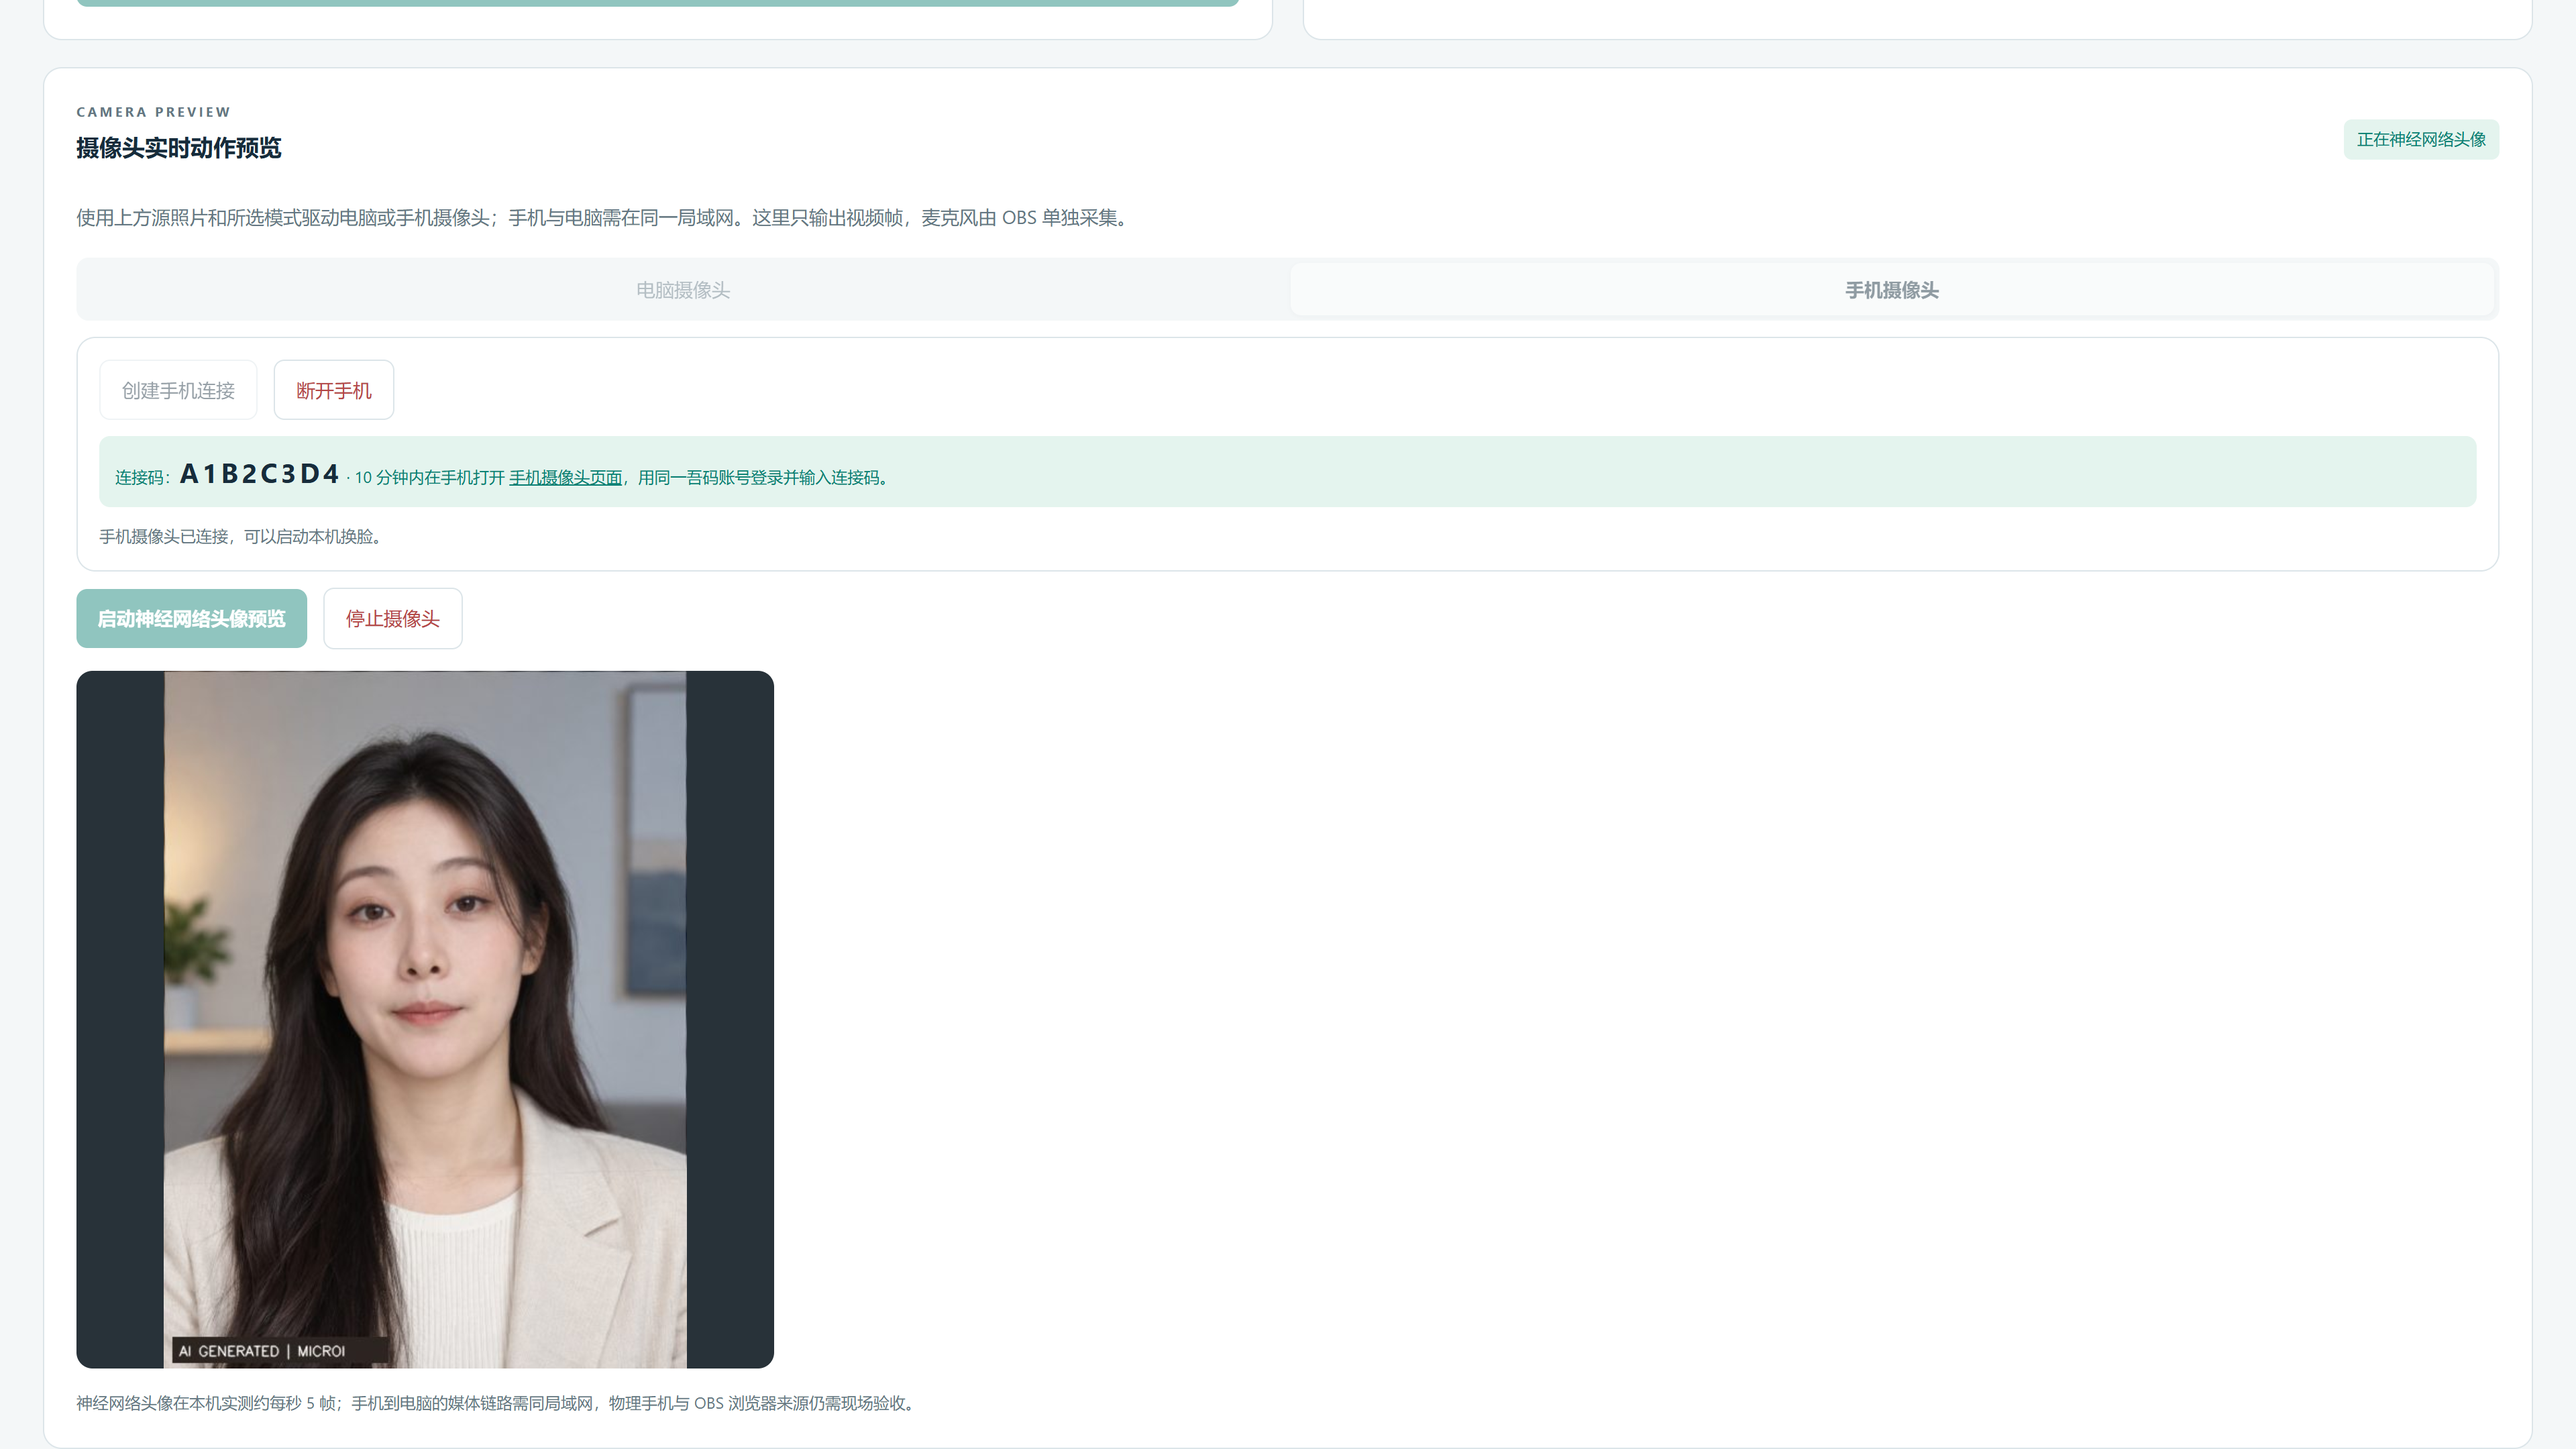
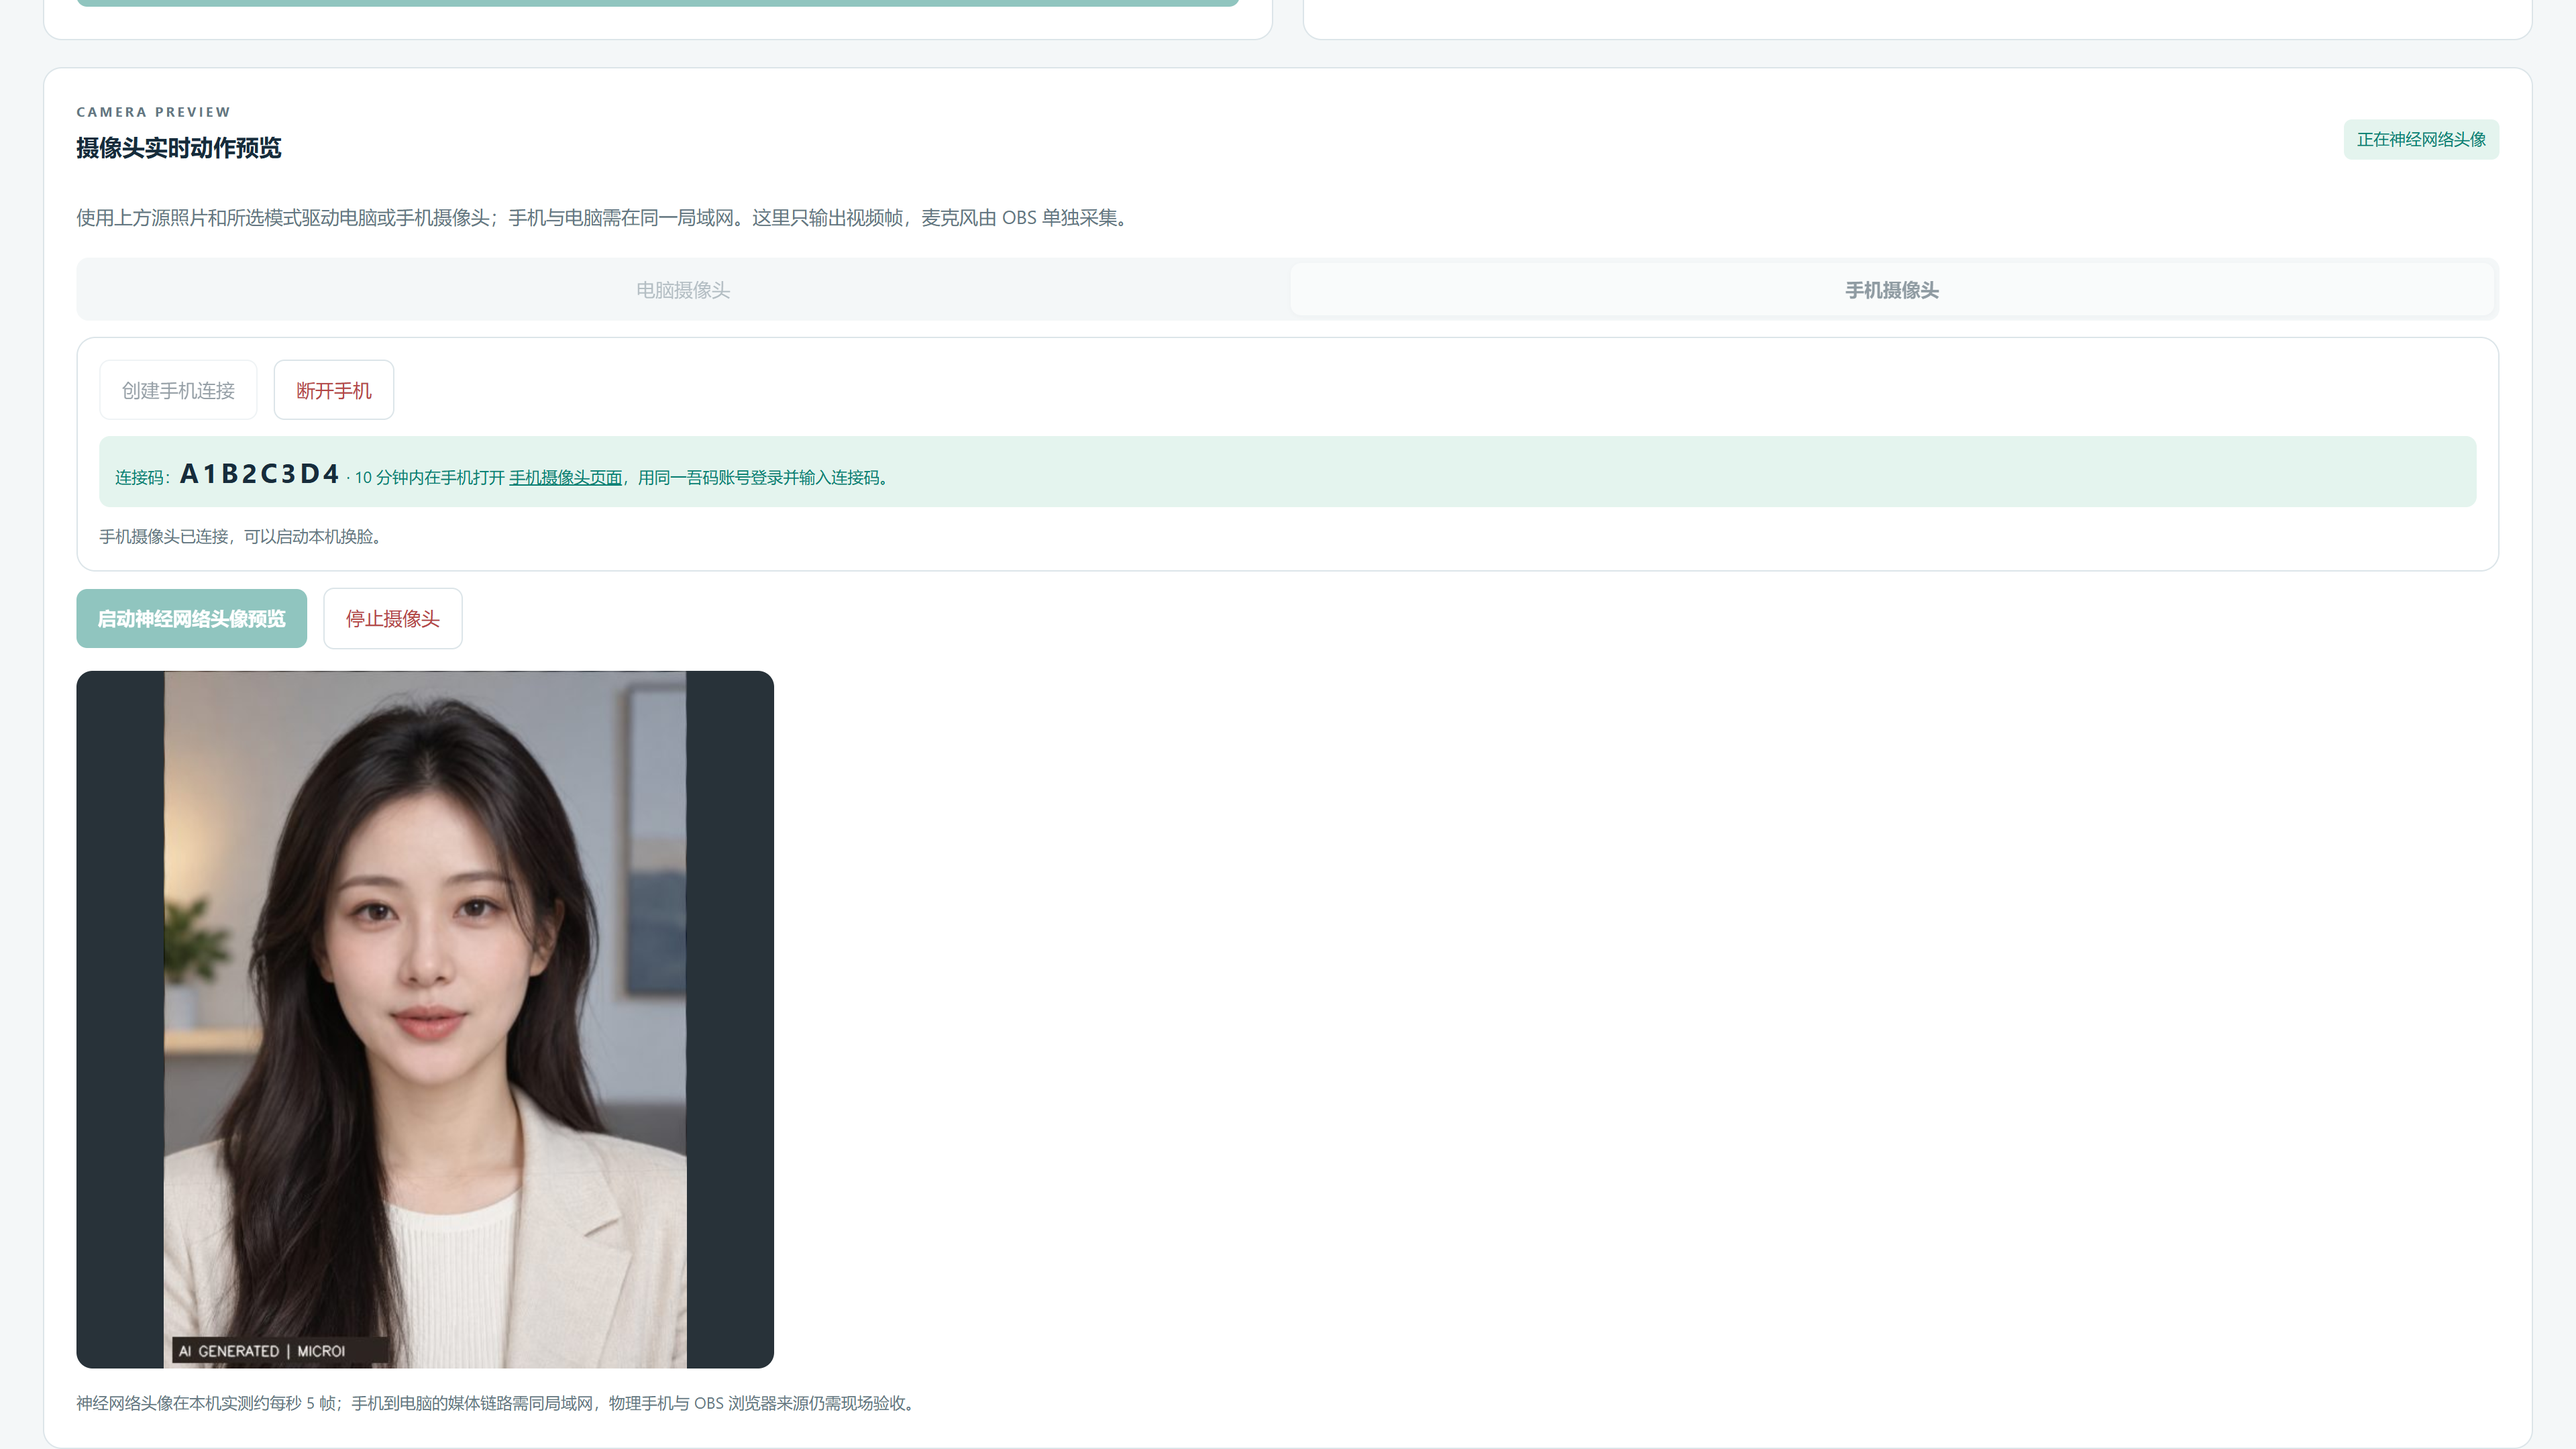
docs: record accelerated neural portrait acceptance

Changed region(s): [[0.0938, 0.4653, 0.25, 0.7755], [0.2188, 0.7755, 0.25, 0.8065], [0.0625, 0.7755, 0.0938, 0.8065]]

diff --git a/microi.doc/docs/doc/system-engine/digital-human-live.md b/microi.doc/docs/doc/system-engine/digital-human-live.md
@@ -12,7 +12,7 @@ outline: [2, 3]
 
 ## 4K 功能截图
 
-以下十五图均为实际应用页面或本机 OBS 录制帧。桌面图原始像素为 **3840 × 2160**；手机链路竖屏图为 **2160 × 3840**。点击可查看原图。这里的 4K 指界面截图或 OBS 输出尺寸，模型输出仍为 480 × 640，不应理解成 4K 模型推理。第一张是本机生成中文语音和口型后，经浏览器 WebRTC 收到的画面；所用人像为文档制作的合成演示素材。第二至第七张记录早期二维换脸、服饰动作及 OBS 片段录制效果，可作为历史基线；末尾两张神经网络头像图分别来自真实本机模型与浏览器虚拟手机摄像头联动测试、OBS 媒体来源录制测试，画质改善，但约 5 fps 仍未达到流畅直播。手机链路截图不是实体手机或商用画质证明。其余工作台和本机设置显示未配对状态；话术与知识库以隔离的示例数据渲染，不代表线上租户的业务回读或外部平台真实开播。
+以下十五图均为实际应用页面或本机 OBS 录制帧。桌面图原始像素为 **3840 × 2160**；手机链路竖屏图为 **2160 × 3840**。点击可查看原图。这里的 4K 指界面截图或 OBS 输出尺寸，模型输出仍为 480 × 640，不应理解成 4K 模型推理。第一张是本机生成中文语音和口型后，经浏览器 WebRTC 收到的画面；所用人像为文档制作的合成演示素材。第二至第七张记录早期二维换脸、服饰动作及 OBS 片段录制效果，可作为历史基线；末尾两张神经网络头像图分别来自真实本机模型与浏览器虚拟手机摄像头联动测试、OBS 媒体来源录制测试，画质改善，但 v0.4.1 短片任务约 6.85 fps 仍未达到流畅直播。手机链路截图不是实体手机或商用画质证明。其余工作台和本机设置显示未配对状态；话术与知识库以隔离的示例数据渲染，不代表线上租户的业务回读或外部平台真实开播。
 
 <div class="mci-doc-screenshot-grid">
   <figure>
@@ -97,7 +97,7 @@ outline: [2, 3]
     <a href="/images/digital-human-live/neural-portrait-phone-4k.png" data-fancybox="digital-human-live-4k" aria-label="查看神经网络头像与手机摄像头链路 4K 原图">
       <img src="/images/digital-human-live/neural-portrait-phone-4k.png" width="3840" height="2160" loading="lazy" alt="本机 LivePortrait 神经网络头像预览，浏览器模拟手机摄像头经局域网 WebRTC 驱动" />
     </a>
-    <figcaption>神经网络头像本机实测：手机端为浏览器虚拟摄像头，驱动帧经 WebRTC 到电脑再由本机模型生成；源照片的头发与服装保留，约 5 fps。</figcaption>
+    <figcaption>神经网络头像本机实测：手机端为浏览器虚拟摄像头，驱动帧经 WebRTC 到电脑再由本机模型生成；源照片的头发与服装保留，v0.4.1 短片任务约 6.85 fps。</figcaption>
   </figure>
   <figure>
     <a href="/images/digital-human-live/obs-neural-4k.png" data-fancybox="digital-human-live-4k" aria-label="查看 OBS 录制神经网络头像的 4K 原图">
@@ -122,7 +122,7 @@ outline: [2, 3]
 
 点击生成时，浏览器先调用吾码接口引擎 `dhl-motion-prepare`；引擎使用当前 DiyToken、当前租户与【直播测试记录】菜单权限核准任务，再调用可由租户扩展的 `dhl-motion-hook`。接口只返回本机执行契约，不接收照片或视频字节。网页随后把素材提交到配对的 `127.0.0.1:17861` 本机服务；完成后在本机预览、下载 MP4，可选择保存不含媒体内容的测试记录。**只换脸和人物服饰动作都支持摄像头实时预览**：浏览器逐帧送到同一回环服务的 WebSocket，再显示处理帧。输出嵌入“AI 生成”标识。源人物和拍摄者都需允许这种用途，不应把合成画面冒充真人身份。
 
-神经网络头像由固定版本的 LivePortrait/FasterLivePortrait 模型在本机 CUDA 显卡推理，用 MediaPipe 替代 InsightFace 检测模型；安装时下载权重，推理时不调用云端模型，也不计 MiniMax token。输出视频最长 15 秒、最多 450 帧、处理宽度最多 640 像素。RTX 2080 SUPER 本机合成样例经完整 HTTP 任务生成 24 帧、2 秒、480 × 640 MP4，实测推理 **4.9 fps**，任务最终成功，文件 95,423 字节；浏览器模拟手机摄像头到本机服务也产生了真实头像画面。视频文件按 12 fps 播放不表示推理达 12 fps。原二维模式历史样例曾分别达到约 21 fps，但画质较差，不能据此推出神经网络模式的直播能力。
+神经网络头像由固定版本的 LivePortrait/FasterLivePortrait 模型在本机 CUDA 显卡推理，用 MediaPipe 替代 InsightFace 检测模型；安装时下载权重，推理时不调用云端模型，也不计 MiniMax token。输出视频最长 15 秒、最多 450 帧、处理宽度最多 640 像素。v0.4.1 对生成模块启用 CUDA 半精度后，RTX 2080 SUPER 本机合成样例经完整 HTTP 任务生成 24 帧、2 秒、480 × 640 MP4，实测推理 **6.85 fps**，任务最终成功，文件 95,573 字节；同一任务在 v0.4.0 为 4.9 fps。浏览器模拟手机摄像头到本机服务也产生了真实头像画面。视频文件按 12 fps 播放不表示推理达 12 fps。原二维模式历史样例曾分别达到约 21 fps，但画质较差，不能据此推出神经网络模式的直播能力。
 
 ### 手机摄像头局域网接入
 
@@ -130,7 +130,7 @@ outline: [2, 3]
 
 `dhl-phone-signal` 接口引擎使用当前 DiyToken、租户、登录用户和【直播测试记录】菜单权限交换 WebRTC 连接信息，房间有效期为 10 分钟。接口引擎不接收相机帧或源照片；相机帧由两端浏览器在局域网内点对点传送，再由电脑浏览器送入本机回环服务。连接信息会经过吾码服务器，因此“媒体留在本机”不等于“没有任何控制信息离开设备”。该版不配置公网 STUN/TURN；不同网络、访客 Wi-Fi 客户端隔离和部分防火墙下连接会失败。
 
-2026-10-07 的自动化在两套独立浏览器会话中，用虚拟摄像头验证了房间建立、同账号信令、电脑端 WebRTC 视频解码、本机服务处理和页面画布显示。神经网络头像一次回读为 19 帧、181,994 字节到达电脑，画布生成非透明图像；此前二维模式回读为 20 帧、214,205 字节。**尚未用实体手机、长时连续直播、OBS 实时窗口捕获或外部直播平台观众端验收**。上述截图和短样例不构成商业交付验收通过。
+2026-10-07 的自动化在两套独立浏览器会话中，用虚拟摄像头验证了房间建立、同账号信令、电脑端 WebRTC 视频解码、本机服务处理和页面画布显示。v0.4.1 神经网络头像一次回读为 20 帧、205,023 字节到达电脑，画布生成非透明图像；此前二维模式回读为 20 帧、214,205 字节。**尚未用实体手机、长时连续直播、OBS 实时窗口捕获或外部直播平台观众端验收**。上述截图和短样例不构成商业交付验收通过。
 
 本版采用 **片段先生成、完成后播报** 的缓冲方式。支持话术播报和手动输入观众问题；完成的片段按队列播放，空闲时保持人像。问答延迟包含文字生成、语音生成和口型生成，不能把“输出 25 fps”当成“模型实时生成 25 fps”。工作台展示的口型生成帧率和耗时来自本机实测。
 
